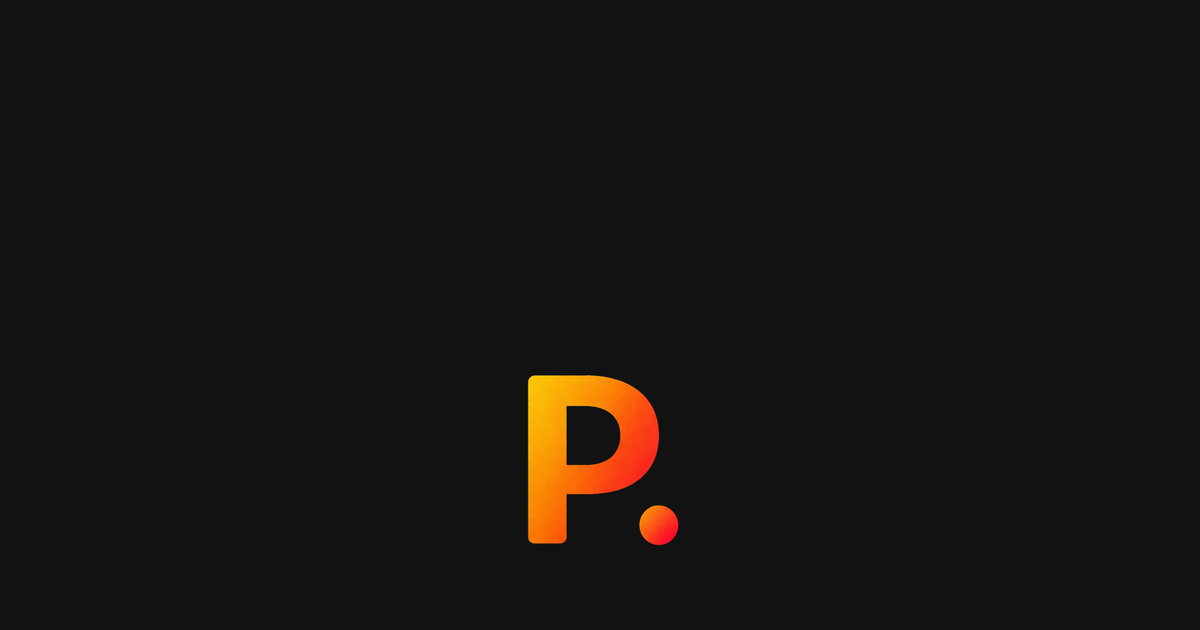
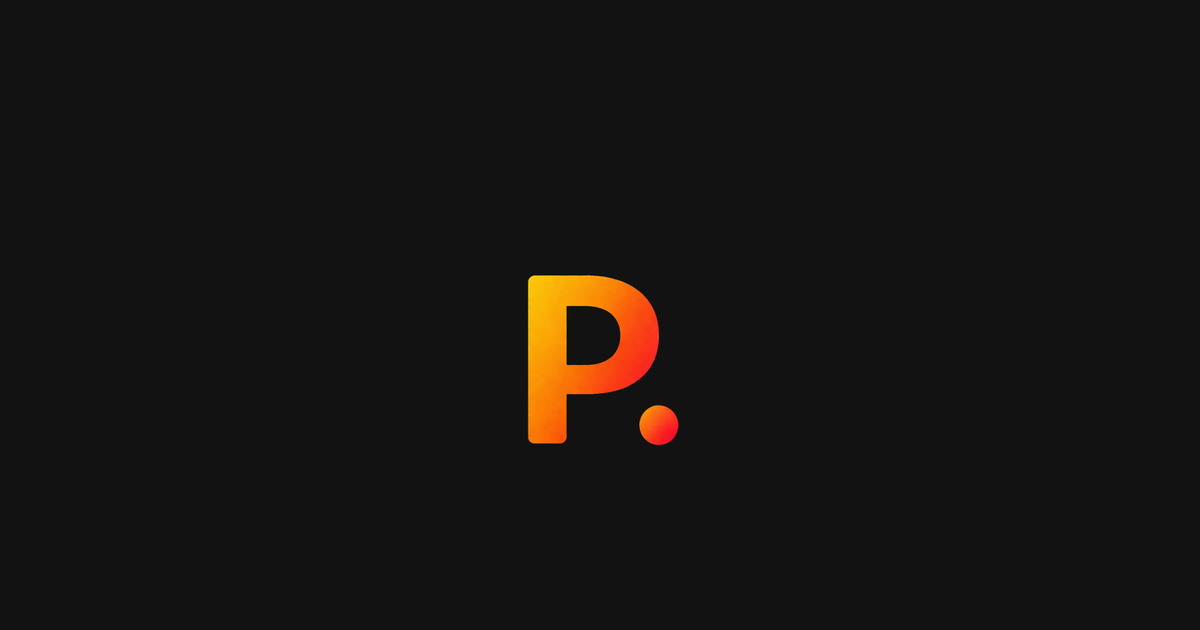
Feat: refresh PackWebsite share card

Changed region(s): [[0.4317, 0.4222, 0.5858, 0.8746]]

diff --git a/src/pages/LinkedTripInviteLanding.tsx b/src/pages/LinkedTripInviteLanding.tsx
@@ -226,7 +226,7 @@ export const LinkedTripInviteLanding: React.FC = () => {
           property="og:description"
           content={localizedContent.shareDescription}
         />
-        <meta property="og:image" content={`${WEBSITE_URL}/images/share-card.png?v=20260402b`} />
+        <meta property="og:image" content={`${WEBSITE_URL}/images/share-card.png?v=20260410a`} />
         <meta property="og:site_name" content="Pack" />
         <meta property="og:locale" content={localizedContent.ogLocale} />
         <meta name="twitter:card" content="summary_large_image" />
@@ -236,7 +236,7 @@ export const LinkedTripInviteLanding: React.FC = () => {
           name="twitter:description"
           content={localizedContent.shareDescription}
         />
-        <meta name="twitter:image" content={`${WEBSITE_URL}/images/share-card.png?v=20260402b`} />
+        <meta name="twitter:image" content={`${WEBSITE_URL}/images/share-card.png?v=20260410a`} />
         {APPLE_APP_ID && (
           <meta
             name="apple-itunes-app"

diff --git a/src/pages/SharedTravelPlan.tsx b/src/pages/SharedTravelPlan.tsx
@@ -379,7 +379,7 @@ export const SharedTravelPlan: React.FC = () => {
 
   const ogImage =
     travelPlan?.thumbnailUrl ||
-    `${WEBSITE_URL}/images/share-card.png?v=20260402b`;
+    `${WEBSITE_URL}/images/share-card.png?v=20260410a`;
   const ogImageAlt = travelPlan?.title ? `${travelPlan.title} - Pack` : 'Shared travel plan on Pack';
   const encodedShareId = hasShareId ? encodeURIComponent(shareId) : '';
   const ogUrl = `${WEBSITE_URL}${encodedShareId ? `/share/${encodedShareId}` : '/share'}`;
